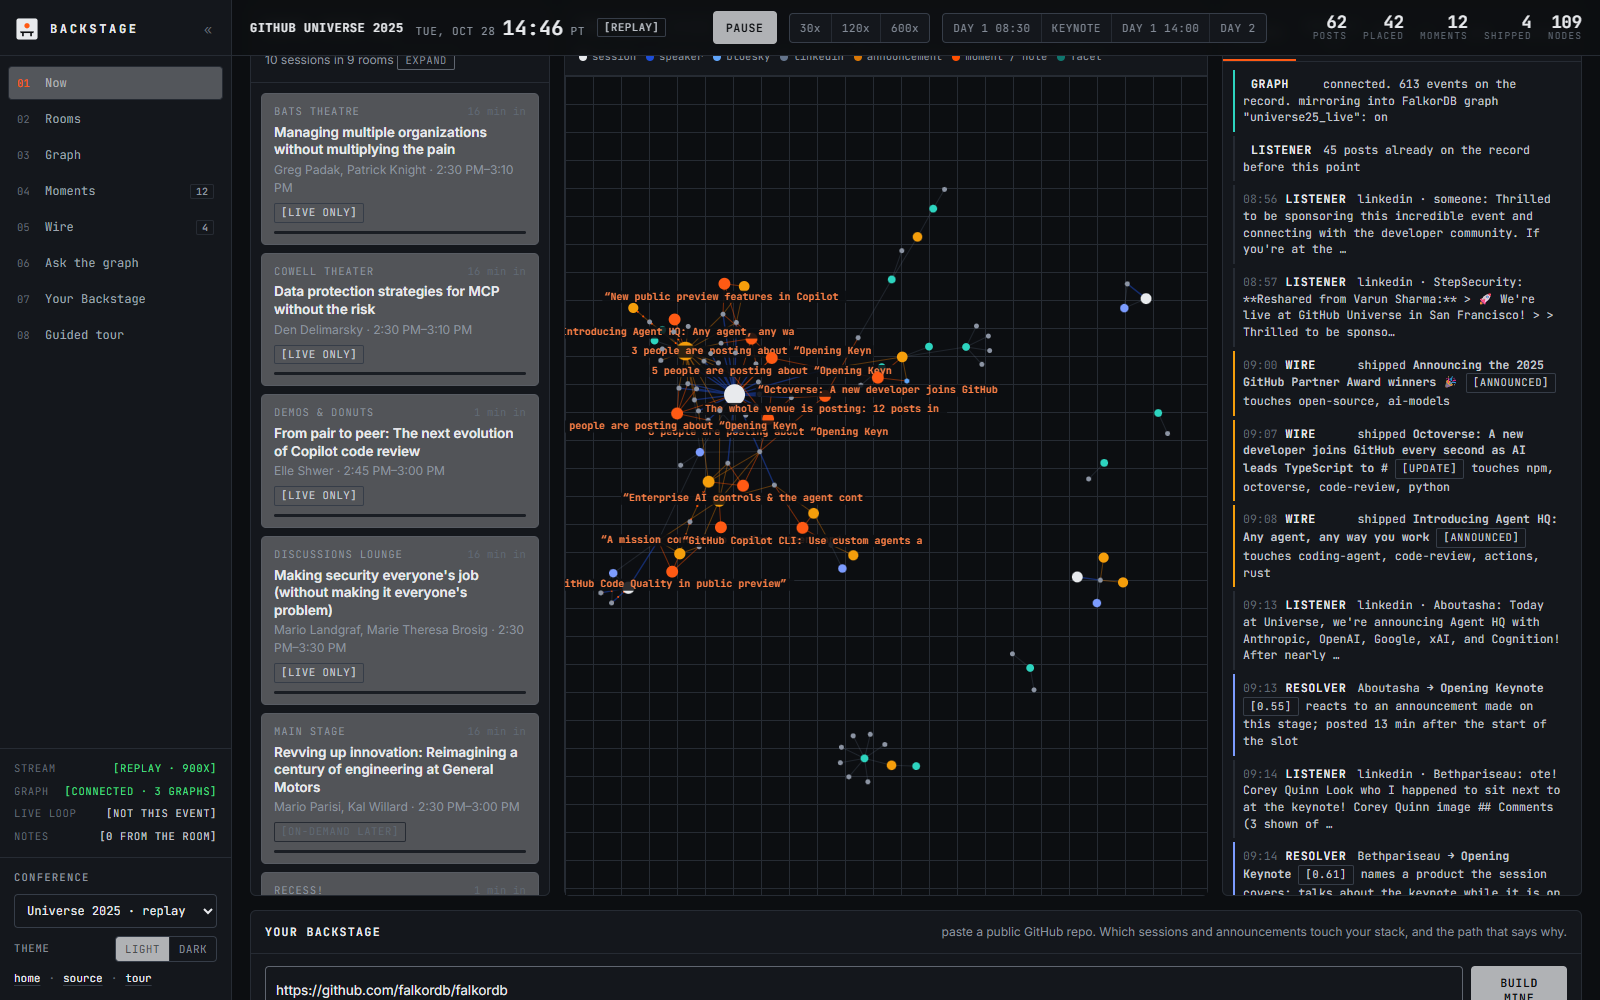
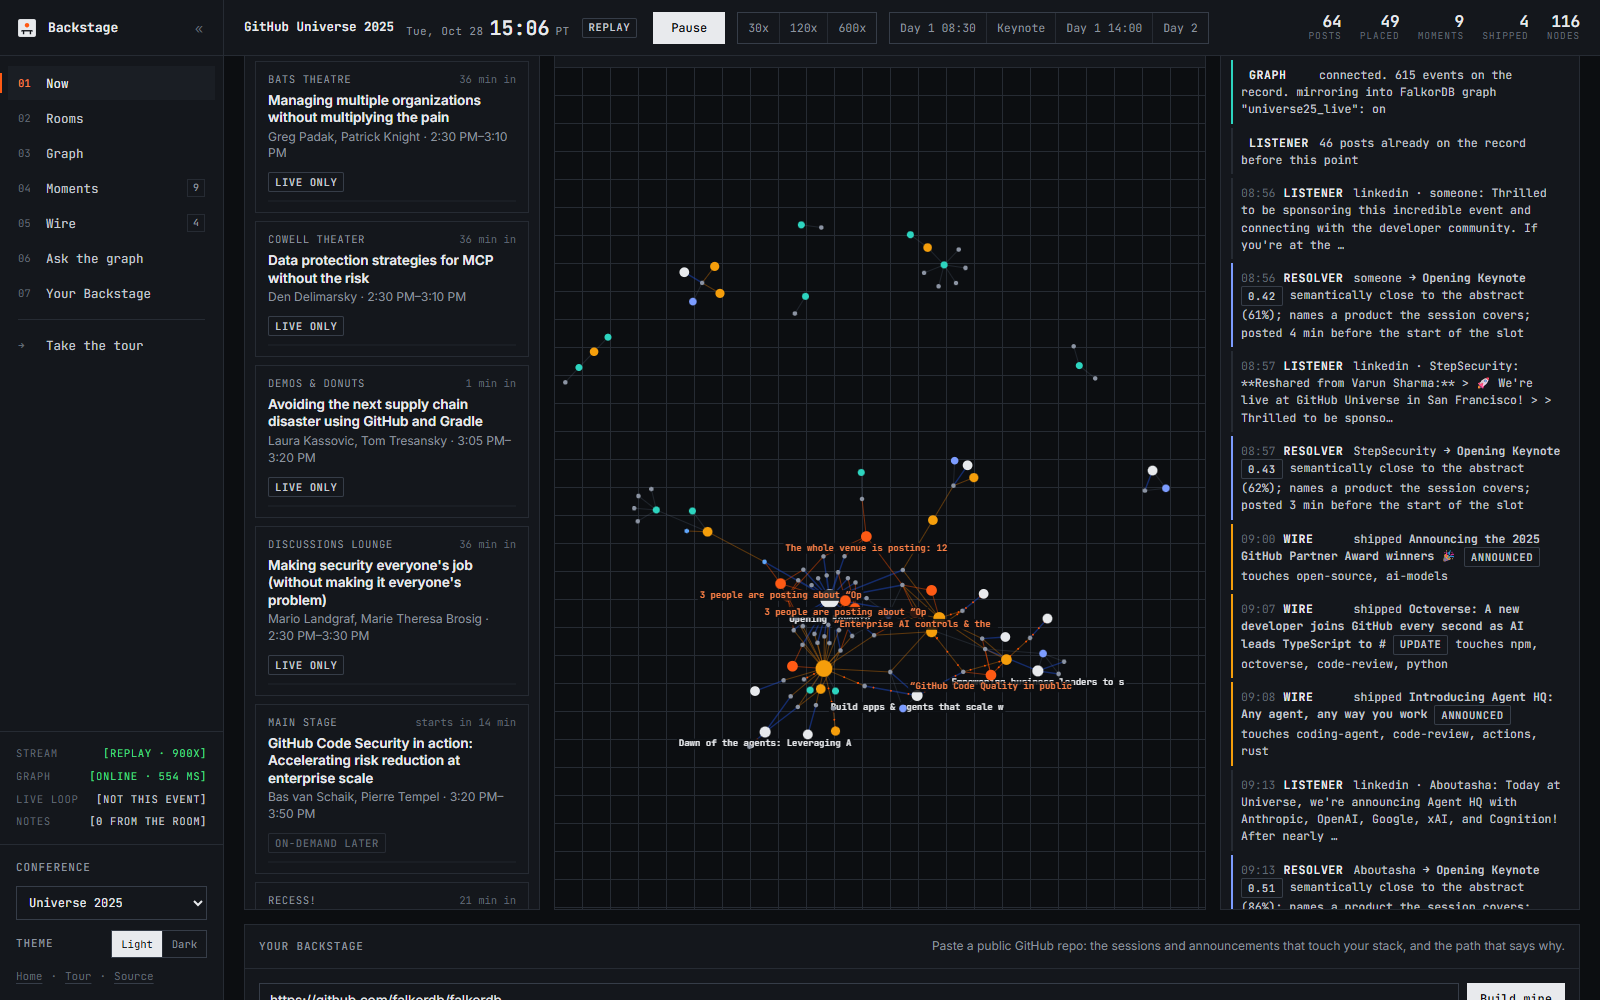
docs: README with the tour, architecture diagram and screenshots; demo script for the tour
Adds a dark-mode logo variant for GitHub, a mermaid pipeline diagram, light and dark console captures, and a three-minute script that starts on the tour.

diff --git a/README.md b/README.md
@@ -1,114 +1,126 @@
 <p align="center">
-  <img src="app/static/logo.svg" width="64" height="64" alt="Backstage">
+  <picture>
+    <source media="(prefers-color-scheme: dark)" srcset="app/static/docs/logo-dark.svg">
+    <img src="app/static/logo.svg" width="56" height="56" alt="Backstage">
+  </picture>
 </p>
 
 <h1 align="center">Backstage</h1>
 
-<p align="center"><strong>The live layer for everyone who is not in the room.</strong><br>
-The public internet, resolved to a conference agenda as it happens, into a graph you can question.</p>
+<p align="center"><b>The live layer for everyone who is not in the room.</b><br>
+The public record of a conference, resolved to the agenda as it happens, in a graph you can question.</p>
 
 <p align="center">
-  <a href="https://backstage-live.fly.dev">backstage-live.fly.dev</a> &nbsp;·&nbsp;
-  <a href="https://backstage-live.fly.dev/console?tour=1">guided demo</a> &nbsp;·&nbsp;
-  <a href="https://backstage-live.fly.dev/console?play=keynote&speed=120">replay Universe 2025</a>
+  <a href="https://backstage-live.fly.dev">Live site</a> &nbsp;·&nbsp;
+  <a href="https://backstage-live.fly.dev/tour">Tour</a> &nbsp;·&nbsp;
+  <a href="https://backstage-live.fly.dev/console?play=keynote&speed=120">Replay GitHub Universe 2025</a>
 </p>
 
-<p align="center"><img src="app/static/docs/console.png" width="920" alt="The Backstage console mid-replay: rooms on the left, the graph in the middle, the agent log on the right"></p>
+<p align="center"><img src="app/static/docs/tour.png" width="900" alt="The Backstage tour: one LinkedIn post from the GitHub Universe 2025 opening keynote, scored against three candidate sessions"></p>
 
----
+A conference runs eight rooms at once. Most people who care about it are not there, and the ones who are sit in one room while seven others run without them. Organizers are cutting livestreams because they cost too much, speakers are missing events over visas, and recordings arrive weeks later with no index. Meanwhile the whole day is narrated in public, on Bluesky, LinkedIn and X, by the people in the room.
 
-A conference has eight rooms and you are in one. It has ten thousand people who care and a thousand who came. Organizers are cutting remote access because livestreaming has become cost-prohibitive, research conferences are opening second sites because speakers cannot get visas, and recordings land weeks later without an index. Inside the venue the problem is the same in miniature: at any minute every attendee is outside seven of eight rooms.
+Backstage reads that record as it is written, places every post on the session it is about, and keeps the result in FalkorDB. From the graph it answers the questions people outside the room actually have: which room is loud right now, what just shipped that touches my code, and which ten minutes did I miss.
 
-Backstage reads the public record of a conference while it is happening, decides which session every post is about, and keeps the result in a graph. From that graph it answers the questions the people outside the room actually have: which room is loud right now, what just shipped that touches my repository, and which minute did I miss.
+## Try it
 
-## What it does
+| Page | What it shows |
+|---|---|
+| [Landing](https://backstage-live.fly.dev) | The problem, the pipeline, and a Moment from the real record |
+| [Tour](https://backstage-live.fly.dev/tour) | One real post followed through all seven stages, autoplaying, with the evidence for each step |
+| [Console](https://backstage-live.fly.dev/console?play=keynote&speed=120) | GitHub Universe 2025 replayed minute by minute while the graph builds itself |
 
-**Moments, not posts.** A spike of reactions in one room, an announcement starting to land, the whole venue posting at once. Each Moment carries its evidence and its time, so you can walk over now or jump to those minutes in the recording later.
-
-**Announcements as actions for your repository.** Every changelog entry and launch post is parsed and tagged with the parts of a stack it touches. Paste a repository and the graph answers which of today's announcements change something you depend on, and which sessions are yours.
-
-**A line back from inside.** Anyone in a room can send a single sentence, no account needed. It is resolved and attributed like any post and reaches every open console the moment it lands. That is what makes the layer two-sided.
-
-**Why, not just what.** Every placement in the graph carries the signals that produced it. Click a post and the console shows the path: the author is the speaker, the post landed twelve minutes into the slot, it reacts to an announcement made on that stage. Every question in the console compiles to read-only Cypher that is shown with the answer.
+The tour follows Kyle Daigle's LinkedIn post at 10:06 PT on day one. It shows the timestamp decoded from the post ID, the three sessions it was scored against, the edge written into FalkorDB, the six-post Moment it fed, and the two hops from the FalkorDB repository to that morning's announcements.
 
 ## How it works
 
-```
- public internet ──► Listener ──► Resolver ──► Curator ──► Wire ──► you
- Bluesky · LinkedIn    posts with    post → session   Moments     announcements
- X · github.blog       exact times   with reasons                  → facets → repo
-                                          │
-                                          ▼
-                                   FalkorDB graph  ◄── the console asks "why" (Cypher paths)
+```mermaid
+flowchart LR
+  A[Bluesky · LinkedIn · X<br/>github.blog] --> L[Listener<br/>time from post ID]
+  L --> R[Resolver<br/>post to session, with reasons]
+  R --> G[(FalkorDB)]
+  W[Wire<br/>announcements to facets] --> G
+  G --> C[Curator<br/>Moments]
+  G --> Y[You<br/>repo to facet to announcement]
+  RM[The room<br/>one line back] --> L
 ```
 
-Four agents share one FalkorDB graph.
+Four agents share one graph.
 
 | Agent | Writes | How |
 |---|---|---|
-| Listener | `Post`, `Author` | Discovery through Exa and Bright Data; exact timestamps recovered from platform post IDs |
-| Resolver | `Post -ABOUT_SESSION{confidence, reason, signals}-> Session` | Author is a speaker, names a speaker, quotes the title, embedding similarity, names a product, inside the slot, said on stage. An LLM adjudicates only between two close candidates |
-| Curator | `Moment -OF-> Session \| Announcement`, `Moment -EVIDENCE-> Post` | Session spikes, announcement waves, venue-wide surges |
-| Wire | `Announcement -AFFECTS-> Facet` | Changelog and launch posts with exact publish times, tagged by stack facet |
+| Listener | `Post`, `Author` | Discovery through Exa and Bright Data. Exact timestamps decoded from the platform's own post IDs |
+| Resolver | `Post -ABOUT_SESSION {confidence, reason, signals}-> Session` | Seven signals it can explain: the author is a speaker, names a speaker, quotes the title, is close to the abstract, names a product the talk covers, landed inside the slot, reacts to something said on stage. An LLM only breaks ties between two close candidates |
+| Wire | `Announcement -AFFECTS-> Facet` | Changelog and launch posts with exact publish times, tagged by the parts of a stack they touch |
+| Curator | `Moment -OF-> Session`, `Moment -EVIDENCE-> Post` | Spikes in one room, waves after an announcement, surges across the venue |
 
-The agenda itself is `Conference → Day → Session → Room / Speaker / Track / Product / Facet`, with `Session -OVERLAPS- Session` as the conflict graph. Repositories enter as `Repo -USES-> Facet`, so "what touches my stack" is a two-hop path.
+The agenda goes in as `Conference → Day → Session → Room / Speaker / Track / Product / Facet`, with `Session -OVERLAPS- Session` computed inside the graph as the conflict map (718 pairs for Universe 2025). A repository enters as `Repo -USES-> Facet`, so "what touches my stack" is a two-hop path, and "why is this post here" is `Post -BY-> Author -IS-> Speaker <-PRESENTED_BY- Session`.
 
-**Exact timestamps without an API.** Bluesky record keys are TIDs: microseconds since the epoch in sortable base32. LinkedIn activity IDs carry the millisecond timestamp in their top 41 bits. The replay is therefore the real minute-by-minute day, verified against a live Bluesky record to the millisecond.
+### Timestamps without an API
 
-**Hard-to-get data.** The GitHub Universe catalog is a RainFocus JavaScript application with no public endpoint. Bluesky's public AppView returns 403 from ordinary networks. X is pay-per-read and LinkedIn has no public read API. Backstage uses Bright Data's SERP API to discover X posts, the Web Scraper API for structured records, and the Web Unlocker for Bluesky; Exa handles Bluesky and LinkedIn discovery inside a date window.
+Discovery returns a date and no time of day. Bluesky record keys are TIDs: microseconds since the epoch in sortable base32. LinkedIn activity IDs carry the millisecond in their top 41 bits. Backstage decodes both, so the replay is the real minute-by-minute day. Checked against a live Bluesky record, the decode matches to the millisecond.
+
+### Sponsor stack
+
+**FalkorDB** is the product, not storage. One graph per conference; every edge carries the evidence that created it; the console's detail panel, the tour's read-back and the Ask tab are all Cypher against it. During a replay every event is also written into a second graph, `<conference>_live`, so the graph is visibly built during a demo. Free-form questions compile to read-only Cypher, run, and get repaired if they error or come back empty.
+
+**Bright Data** covers what a plain fetch cannot reach. The GitHub Universe catalog is a RainFocus JavaScript app with no documented endpoint. Bluesky's public API returns 403 to ordinary networks. X has no affordable read API. Backstage uses the SERP API to discover X posts with date operators, the Browser API over CDP to read Bluesky, and the Web Scraper X dataset where the account has it enabled. Every response is cached by request hash, so a re-run never spends twice.
 
 ## The console
 
-<p align="center"><img src="app/static/docs/console-dark.png" width="920" alt="The console in dark mode"></p>
+<p align="center"><img src="app/static/docs/console.png" width="900" alt="The console mid-replay: rooms on the left, the graph in the middle, the agents on the right"></p>
 
 - **Right now across the venue.** One card that summarizes every room before you look at any of them.
-- **Rooms, right now.** Live only or on-demand later, straight from the catalog; the bar is public signal in the last thirty minutes.
-- **The graph.** Builds itself as the day unfolds and is mirrored into FalkorDB while it does. Expand it to the whole viewport.
-- **Agents, Moments, Wire, Ask.** The log is the agents' reasoning; Moments and Wire are their outputs; Ask compiles plain questions to Cypher.
-- **Your Backstage.** A repository becomes facets; facets reach announcements and sessions.
-- **Report from the room.** The one line back.
-- **Guided tour.** Nine steps that spotlight each part of the console in order. `?tour=1`, the sidebar, or the `?` key.
+- **Rooms.** Live only or on demand later, straight from the catalog, with public signal from the last thirty minutes.
+- **The graph.** Builds itself as the day unfolds. Click any node for the path behind it. Expand to full screen.
+- **Agents, Moments, Wire, Ask.** The log is the agents' reasoning, Moments and Wire are their output, Ask turns questions into Cypher.
+- **Your Backstage.** Paste a public repository: its manifests become facets, and facets reach sessions and announcements.
+- **Report from the room.** One sentence from inside, no account, delivered to every open console.
 
-Light and dark themes, keyboard control (`space` play/pause, `esc` close, `?` tour), and deep links for demos: `/console?play=keynote&speed=120`.
+Light and dark themes, keyboard control (`space`, `esc`, `?`), and demo links such as `/console?play=keynote&speed=120` and `/tour?step=3`.
+
+<p align="center"><img src="app/static/docs/console-dark.png" width="900" alt="The console in dark mode"></p>
 
 ## Run it
 
 ```bash
-python -m venv .venv && . .venv/bin/activate          # Windows: .venv\Scripts\activate
+python -m venv .venv && . .venv/bin/activate        # Windows: .venv\Scripts\activate
 pip install -r requirements.txt
-cp .env.example .env                                  # FalkorDB host and password, OPENAI_API_KEY, BRIGHTDATA_API_KEY, EXA_API_KEY
+cp .env.example .env                                # FalkorDB, OpenAI, Bright Data, Exa
 
-python -m app.ingest.rainfocus universe25 universe26  # agenda: 151 + 157 sessions
-python -m scripts.build_timeline universe25           # resolve posts, curate moments, load FalkorDB, write the replay timeline
-python -m app.server                                  # http://localhost:8080
+python -m app.ingest.rainfocus universe25 universe26   # agenda: 151 and 157 sessions
+python -m scripts.build_timeline universe25            # resolve posts, curate Moments, load FalkorDB, write the replay
+python -m scripts.build_story universe25               # the tour's story, computed from the graph
+python -m app.server                                   # http://localhost:8080
 ```
 
-FalkorDB: `docker run -p 6379:6379 -p 3000:3000 falkordb/falkordb:v4.22.2`, or any hosted instance. The demo deployment runs FalkorDB and the app on Fly.io (`infra/falkor/fly.toml`, `fly.toml`).
+FalkorDB runs with `docker run -p 6379:6379 falkordb/falkordb:v4.22.2` or any hosted instance. The live deployment runs FalkorDB and the app on Fly.io (`infra/falkor/fly.toml`, `fly.toml`).
 
-Live mode: while a live-mode conference is inside its dates, the server pulls fresh posts every three minutes (`app/agents/live.py`), resolves them with the same agents, and appends to the timeline and the graph. GitHub Universe 2026 is loaded and armed for 28 October.
+While a live-mode conference is inside its dates, the server pulls new posts every three minutes, resolves them with the same agents and appends them to the timeline and the graph. GitHub Universe 2026 is loaded and armed for 28 October.
 
-Without an OpenAI key the Resolver runs on deterministic signals only and free-form questions are disabled; templated questions still work. Without a Bright Data key, X and Bluesky harvesting are skipped and discovery runs on Exa alone.
+Without an OpenAI key the Resolver runs on its deterministic signals and free-form questions are off. Without Bright Data, discovery runs on Exa alone.
 
 ## Repository
 
 | Path | What |
 |---|---|
-| `app/ingest/rainfocus.py` | RainFocus catalog API → sessions, speakers |
-| `app/ingest/posts.py` | Post normalization, TID and activity-ID timestamp recovery |
-| `app/ingest/brightdata.py` | SERP discovery, X posts dataset, Unlocker for Bluesky |
+| `app/ingest/rainfocus.py` | RainFocus catalog API to sessions and speakers |
+| `app/ingest/posts.py` | Post normalization and timestamp recovery from post IDs |
+| `app/ingest/brightdata.py` | SERP discovery, Browser API, X posts dataset |
 | `app/ingest/githubblog.py` | Announcements with exact publish times and facets |
-| `app/agents/resolver.py` | Post → session, speaker, announcement, with reasons |
-| `app/agents/curator.py` | Moments: spikes, waves, surges |
-| `app/agents/live.py` | Live pull for a conference happening now |
-| `app/facets.py` | Stack facets: lexicon and repository manifest reader |
-| `app/graph.py` | FalkorDB layer: schema, batched writes, path queries |
-| `app/server.py` | FastAPI: SSE replay mirrored into a live graph, why / session / ask / repo / note endpoints |
-| `app/static/` | Landing page and console |
-| `scripts/build_timeline.py` | End-to-end build for one conference |
-| `DEMO.md` | The three-minute script |
+| `app/agents/resolver.py` | Post to session, speaker and announcement, with reasons |
+| `app/agents/curator.py` | Moments |
+| `app/agents/live.py` | Live pull for a conference that is happening now |
+| `app/graph.py` | FalkorDB schema, batched writes, path queries |
+| `app/server.py` | FastAPI: replay stream mirrored into a live graph; why, session, ask, repo, note and story endpoints |
+| `app/static/` | Landing, tour and console; one stylesheet, self-hosted fonts |
+| `scripts/` | Timeline and story builds |
+| `DEMO.md` | The three-minute demo script |
 
 ## Limits
 
-Discovery is semantic search over the public web, so recall is partial and a relevance filter drops off-topic hits. Resolution is only as good as its signals; confidence and reason sit on every edge so a wrong placement is visible rather than silent. Small conferences are sparse; Backstage is strongest from a few hundred attendees up.
+Discovery is search over the public web, so recall is partial, and a relevance filter drops posts that are not about the conference. Resolution is only as good as its signals; confidence and reason sit on every edge, so a wrong placement is visible rather than silent. Small conferences are sparse. Backstage is strongest from a few hundred attendees up.
 
-Built in one day at Patch the Conference, San Francisco, 24 October 2026. Graph: FalkorDB. Hard-to-get data: Bright Data. Discovery: Exa.
+---
+
+Built in one day at Patch the Conference, San Francisco, 24 October 2026.

diff --git a/DEMO.md b/DEMO.md
@@ -1,25 +1,23 @@
-# Demo script (under three minutes)
+# Demo script (three minutes)
 
-Open `https://backstage-live.fly.dev/console?play=keynote&speed=120` on the projector. The console starts at 8:55 AM on Day 1 of GitHub Universe 2025 and runs at two hours per minute.
+Light theme, browser full screen. Two tabs ready: `https://backstage-live.fly.dev/tour` and `https://backstage-live.fly.dev/console?play=keynote&speed=120`.
 
-**0:00 · The problem (15 s).** "Every conference has eight rooms and you are in one. Every conference has ten thousand people who care and a thousand who came. Hybrid is dying because livestreams are cost-prohibitive, visas are tightening, and recordings land weeks later. Backstage is the live layer for everyone who is not in the room."
+**0:00 · Landing (15 s).** Open `https://backstage-live.fly.dev`. "A conference runs eight rooms at once, and most people who care about it are not in any of them. The day is narrated in public by the people who are. Backstage reads that record as it is written and keeps it in a graph." Click **Take the tour**.
 
-**0:15 · The record is real (20 s).** Point at the clock. "This is last year's Universe, minute by minute. No API gave us this: Bluesky post keys and LinkedIn activity IDs encode their creation time, so we recovered exact timestamps for 600 posts. The agenda is the RainFocus catalog, 151 sessions, which is a JavaScript app with no public endpoint."
+**0:15 · Tour, steps 01 and 02 (30 s).** Let it autoplay. "This is one real post. Kyle Daigle, who spoke at the opening keynote, on LinkedIn at 10:06. Discovery gives us a date and no time. The Listener reads the time out of the post ID itself: LinkedIn activity IDs carry the millisecond in their top 41 bits." Point at the decode table on the right.
 
-**0:35 · Watch the graph build (30 s).** "Left: every room, right now, and how loud it is. Middle: the FalkorDB graph growing as posts arrive. Right: four agents. Listener ingests. Resolver decides where a post belongs and writes the reason onto the edge. Wire parses announcements as they ship and tags the parts of a stack they touch. Curator turns spikes into Moments." Let the keynote wave hit around 9:10. "Twenty people are posting about the keynote. That is a Moment: walk over, or jump to that minute of the recording tonight."
+**0:45 · Step 03, Resolve (30 s).** "The Resolver scores the post against every session. Author is a speaker, the text matches the abstract, it names a product the talk covered, it landed in the window. 0.97 against 0.46. The reason is written on the edge."
 
-**1:05 · Why, not just what (30 s).** Click a post node under the keynote. "Every placement is a path. This post sits under the Opening Keynote because its author is the speaker, it was posted twelve minutes into the slot, and it reacts to an announcement made on that stage. Here is the Cypher." Click the session. "Overlaps: the conflict graph. Live-only versus on-demand, straight from the catalog."
+**1:15 · Steps 04 and 05, Write and Moment (30 s).** "The edge goes into FalkorDB, and here it is read back: Post, Author, Speaker, Session, Room. Five other people were posting about the same announcement, so the Curator made it a Moment." Point at the evidence list.
 
-**1:35 · Your stack (30 s).** Scroll to Your Backstage. Paste `https://github.com/falkordb/falkordb`, press Build mine. "Manifests become facets: Actions workflows, a devcontainer, Cargo. Repo to Facet to Announcement: these shipped today and touch you. Repo to Facet to Session: these talks, in these rooms, are yours. Two hops in FalkorDB, with the evidence."
+**1:45 · Step 06, You (15 s).** "Paste a repository and its manifests become facets. Two hops later you know which announcements and sessions from that morning touch your stack."
 
-**2:05 · Ask the graph (20 s).** Ask tab, click "Which speakers posted about their own session?" then "Which sessions overlap with the loudest one?". "Templated and free-form questions compile to read-only Cypher."
+**2:00 · Console (45 s).** Switch to the console tab, already replaying. "This is the same graph for the whole day. Every room, right now. The venue summarized before you pick one. Agents writing to FalkorDB as posts arrive." Click a post node: "every placement is a path." Click **Ask**, then "Which speakers posted about their own session?". Type one line into **Report from the room** and send: "anyone inside can send one line, no account, and it reaches every open console."
 
-**2:25 · Hard data, live Wednesday (20 s).** "Discovery runs on Exa; the hard parts run on Bright Data: SERP to find X posts, the Web Scraper for structured records, the Unlocker because Bluesky's own API blocks ordinary networks. Universe 2026 is loaded, 157 sessions, and the live loop starts pulling when the doors open Wednesday. Use it from your seat."
+**2:45 · Close (15 s).** "Bright Data reaches what a plain script cannot: X through the SERP API and Bluesky through the Browser API. Universe 2026 is loaded and goes live Wednesday. Backstage: the live layer for everyone who is not in the room."
 
-**2:45 · Close (10 s).** "Backstage: the live layer for everyone who is not in the room. Any conference, zero organizer effort, a graph you can question."
+## Questions to expect
 
-## Judge questions to expect
-
-- *Why a graph?* Every answer is a multi-hop path (Post → Author → Speaker → Session; Repo → Facet → Announcement). The conflict graph (OVERLAPS) and the live mirror are native graph operations.
-- *How accurate is resolution?* Rules first (author, mention, title, product, time, stage), embeddings and an LLM adjudicator when a key is set. Confidence and reason live on the edge. A wrong placement is one click away from a correction.
-- *What about small conferences?* Sparse. Backstage is strongest from a few hundred attendees up, and the agenda layer works for any size.
+- **Why a graph?** Every answer is a path: Post to Author to Speaker to Session, Repo to Facet to Announcement. The conflict map is `OVERLAPS` edges computed inside FalkorDB.
+- **How accurate is placement?** Deterministic signals first, embeddings and an LLM tie-break when a key is set. Confidence and reason live on the edge, so a wrong placement is visible.
+- **Small conferences?** Sparse. Strongest from a few hundred attendees up; the agenda layer works at any size.
